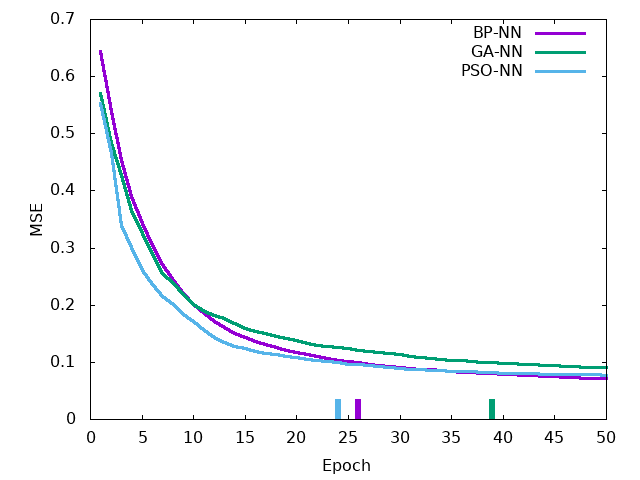
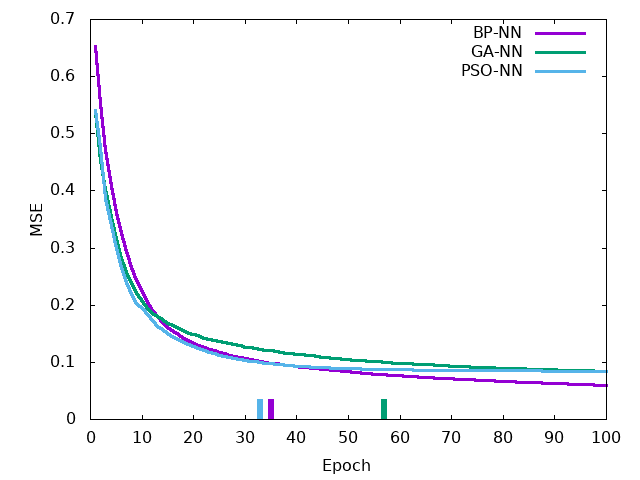
Updated

diff --git a/code/network_params.py b/code/network_params.py
@@ -3,7 +3,7 @@ General Network Parameters
 """
 
 def get_epochs():
-	num_epochs = 50
+	num_epochs = 100
 	return num_epochs
 
 def get_hidden_size(data_used):
